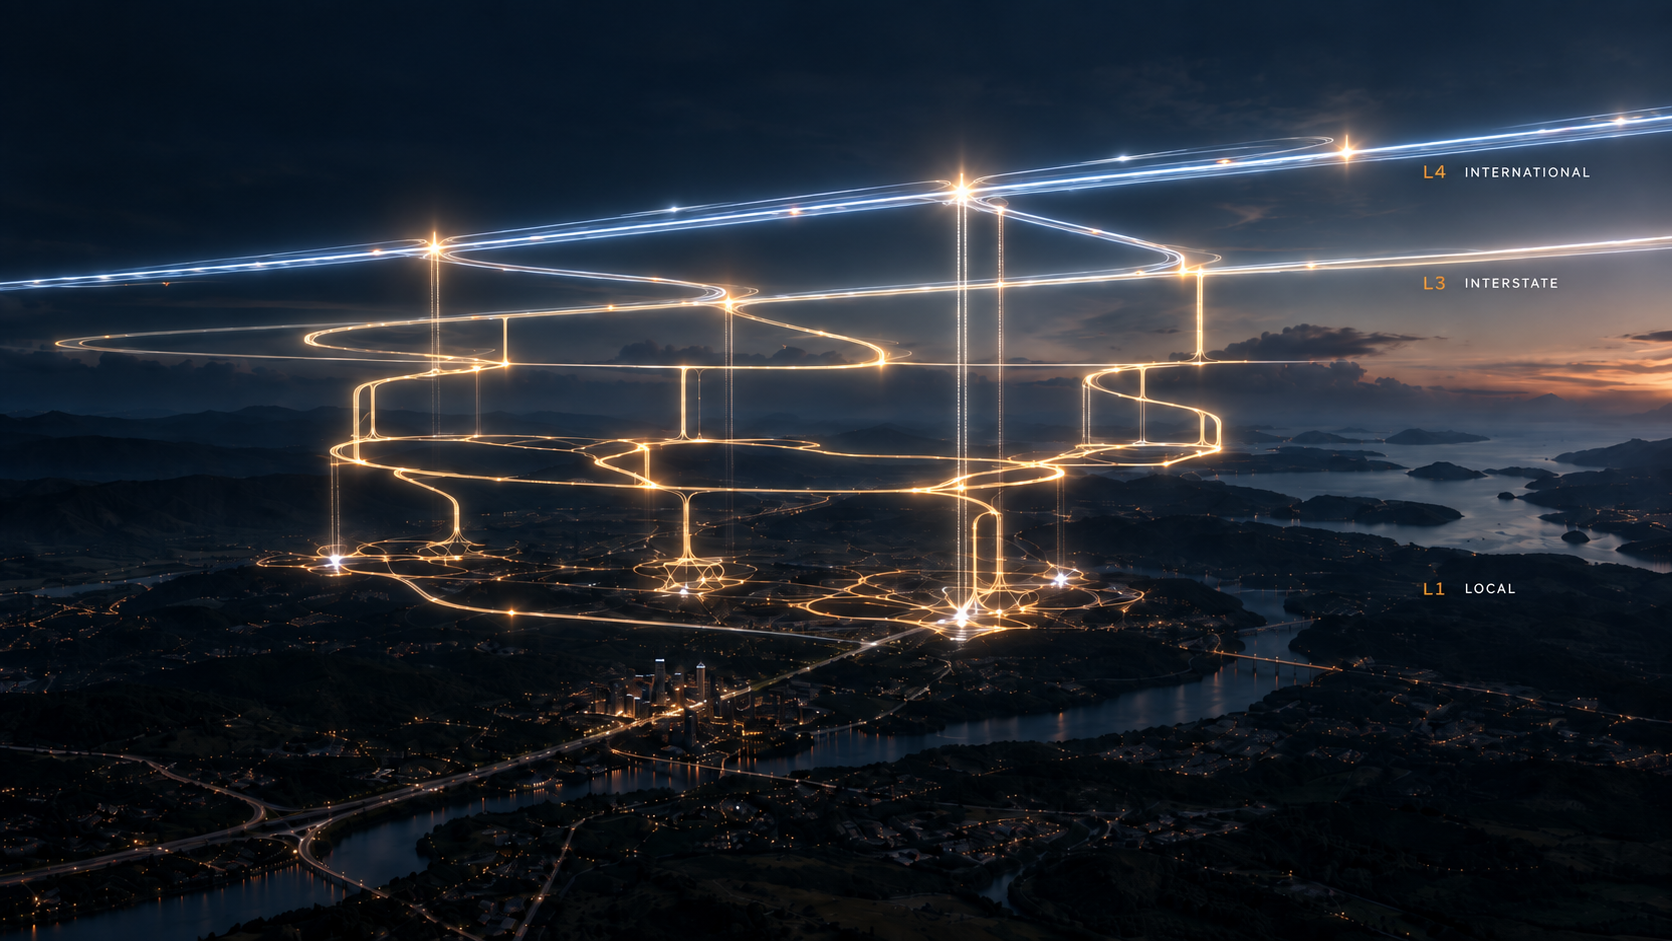
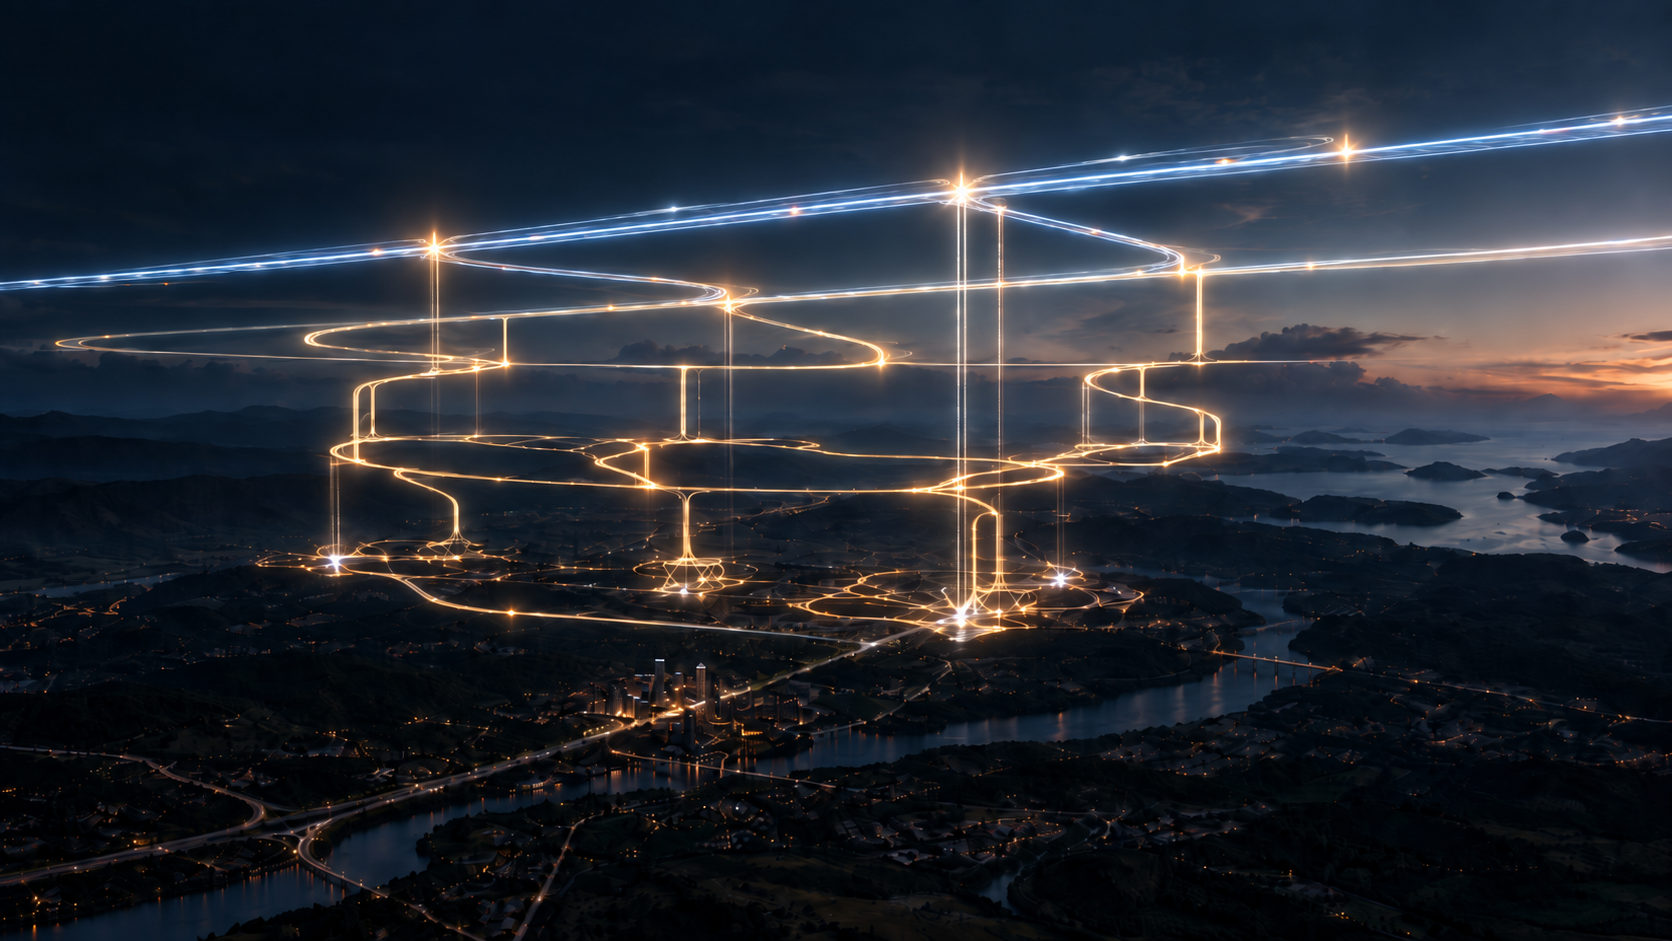
[style] added new footer, and replaced image

diff --git a/src/components/Footer.tsx b/src/components/Footer.tsx
@@ -57,7 +57,7 @@ export function Footer() {
               tt="uppercase"
               style={{ letterSpacing: "0.05em" }}
             >
-              &copy; 2025 ASCEREX
+              &copy; 2026 ASCEREX
             </Text>
           </Box>
         </Group>
